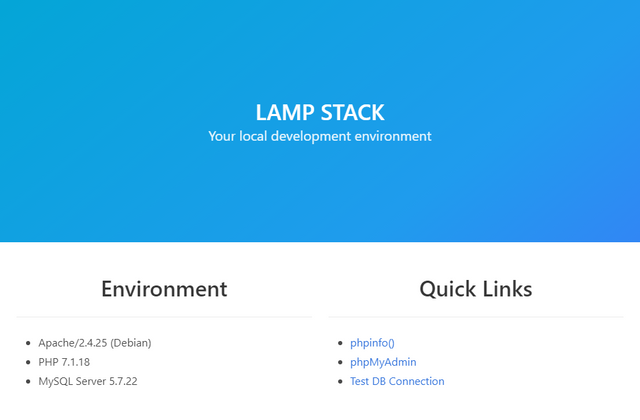
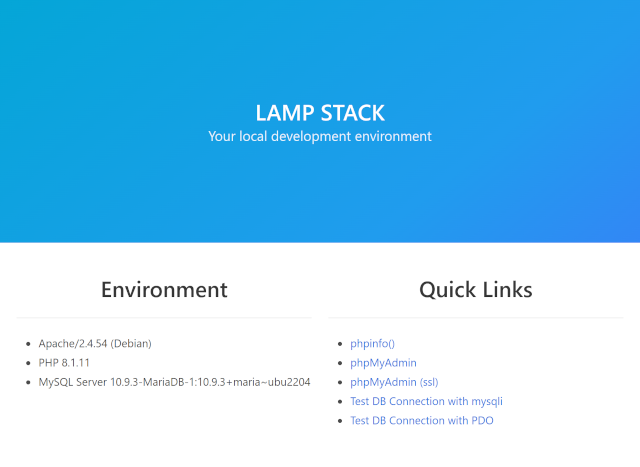
feature and versions update --- versions --- update php80, php81: xdebug-3.1.5 adding php82 (rc) with xdebug-3.2.0alpha3 adding mariadb110 (rc) adding mariadb109 update mariadb108 --- features --- adding xdebug logging and remote support adding dash.localhost adding bin/phpmyadmin: ssl support --- f

diff --git a/www/dash/index.php b/www/dash/index.php
@@ -54,6 +54,7 @@
                             <ul>
                                 <li><a href="/phpinfo.php">phpinfo()</a></li>
                                 <li><a href="http://localhost:<? print $_ENV['PMA_PORT']; ?>">phpMyAdmin</a></li>
+                                <li><a href="https://localhost:<? print $_ENV['PMA_SECURE_PORT']; ?>">phpMyAdmin (ssl)</a></li>
                                 <li><a href="/test_db.php">Test DB Connection with mysqli</a></li>
                                 <li><a href="/test_db_pdo.php">Test DB Connection with PDO</a></li>
                             </ul>

diff --git a/README.md b/README.md
@@ -19,10 +19,10 @@
 ## Features
 
 - Apache with vhosts and SSL (<http://localhost> & <https://localhost>)
-- PHP [Currently Supported Versions] (7.4.x, 8.0.x, 8.1.x)
+- PHP [Currently Supported Versions] (7.4.x, 8.0.x, 8.1.x, 8.2.x-rc)
 - PHP [End of life / not recommended] (5.4.x, 5.6.x, 7.0.x, 7.1.x, 7.2.x, 7.3.x)
 - MySQL (5.7, 8.x)
-- MariaDB (10.3, 10.4, 10.5, 10.6, 10.7, 10.8-rc)
+- MariaDB (10.3, 10.4, 10.5, 10.6, 10.7, 10.8, 10.9, 10.10-rc)
 - phpMyAdmin
 - XDebug
 - Imagick
@@ -104,6 +104,8 @@ cp sample.env .env
 
 ### Visit
 
+#### insecure
+
 - Dashboard
   - [http://localhost](http://localhost)
 
@@ -111,10 +113,30 @@ cp sample.env .env
   - [http://localhost:8080](http://localhost:8080)
 
 - virtual domains
+  - [http://dash.localhost](http://dash.localhost)
   - [http://app.localhost](http://app.localhost)
   - [http://projects.localhost](http://projects.localhost)
 
+##### secure
+
+- Dashboard
+  - [https://localhost](https://localhost)
+
+- phpMyAdmin
+  - [https://localhost:8443](https://localhost:8443)
+
+- virtual domains
+  - [https://dash.localhost](https://dash.localhost)
+  - [https://app.localhost](https://app.localhost)
+  - [https://projects.localhost](https://projects.localhost)
+
 In order to use the above URL, you still need to change the hosts file.
+
+### SSL (HTTPS)
+
+Support for https domains is built-in and enabled by default.
+
+### Virtual-Hosts
 
 #### Linux/macOS
 
@@ -126,12 +148,13 @@ sudo nano /etc/hosts
 
 You can just use Notepad for this. To do this, right-click on "Run as administrator" in the start menu. Then go to Open, show all files and navigate to the folder **C:\Windows\System32\drivers\etc**. Now you can open and edit the **hosts** file.
 
-### hosts-file
+#### hosts-file
 
 ```text
 ...
-127.0.0.1  app.localhost
+127.0.0.1  dash.localhost
 127.0.0.1  projects.localhost
+127.0.0.1  app.localhost
 ...
 ```
 
@@ -156,6 +179,77 @@ will be executed in alphabetical order.
 
 default location is ./config/initdb
 ```
+
+### Xdebug
+
+Xdebug comes installed by default and it's version depends on the PHP version chosen in the `".env"` file.
+
+**Xdebug versions:**
+
+PHP <= 7.3: Xdebug 2.X.X
+
+PHP >= 7.4: Xdebug 3.X.X
+
+To use Xdebug you need to enable the settings in the `./config/php/php.ini` file according to the chosen version PHP.
+
+Example:
+
+```text
+# Xdebug 2
+#xdebug.remote_enable=1
+#xdebug.remote_autostart=1
+#xdebug.remote_connect_back=1
+#xdebug.remote_host = host.docker.internal
+#xdebug.remote_port=9000
+
+# Xdebug 3
+#xdebug.mode=debug
+#xdebug.start_with_request=yes
+#xdebug.client_host=host.docker.internal
+#xdebug.client_port=9003
+#xdebug.idekey=VSCODE
+```
+
+Xdebug VS Code: you have to install the Xdebug extension "PHP Debug". After installed, go to Debug and create the launch file so that your IDE can listen and work properly.
+
+Example:
+
+**VERY IMPORTANT:** the `pathMappings` depends on how you have opened the folder in VS Code. Each folder has your own configurations launch, that you can view in `.vscode/launch.json`
+
+```json
+{
+  "version": "0.2.0",
+  "configurations": [
+    {
+      "name": "Listen for Xdebug",
+      "type": "php",
+      "request": "launch",
+      // "port": 9000, // Xdebug 2
+      "port": 9003, // Xdebug 3
+      "pathMappings": {
+        // "/var/www/html": "${workspaceFolder}/www" // if you have opened VSCODE in root folder
+        "/var/www/html": "${workspaceFolder}" // if you have opened VSCODE in ./www folder
+      }
+    }
+  ]
+}
+```
+
+Now, make a breakpoint and run debug.
+
+**Tip!** After theses configurations, you may need to restart container.
+
+### Redis
+
+It comes with Redis. It runs on default port `6379`.
+
+## Why you shouldn't use this stack unmodified in production
+
+We want to empower developers to quickly create creative Applications. Therefore we are providing an easy to set up a local development environment for several different Frameworks and PHP Versions.
+In Production you should modify at a minimum the following subjects:
+
+- php handler: mod_php=> php-fpm
+- secure mysql users with proper source IP limitations
 
 ## Credits
 
